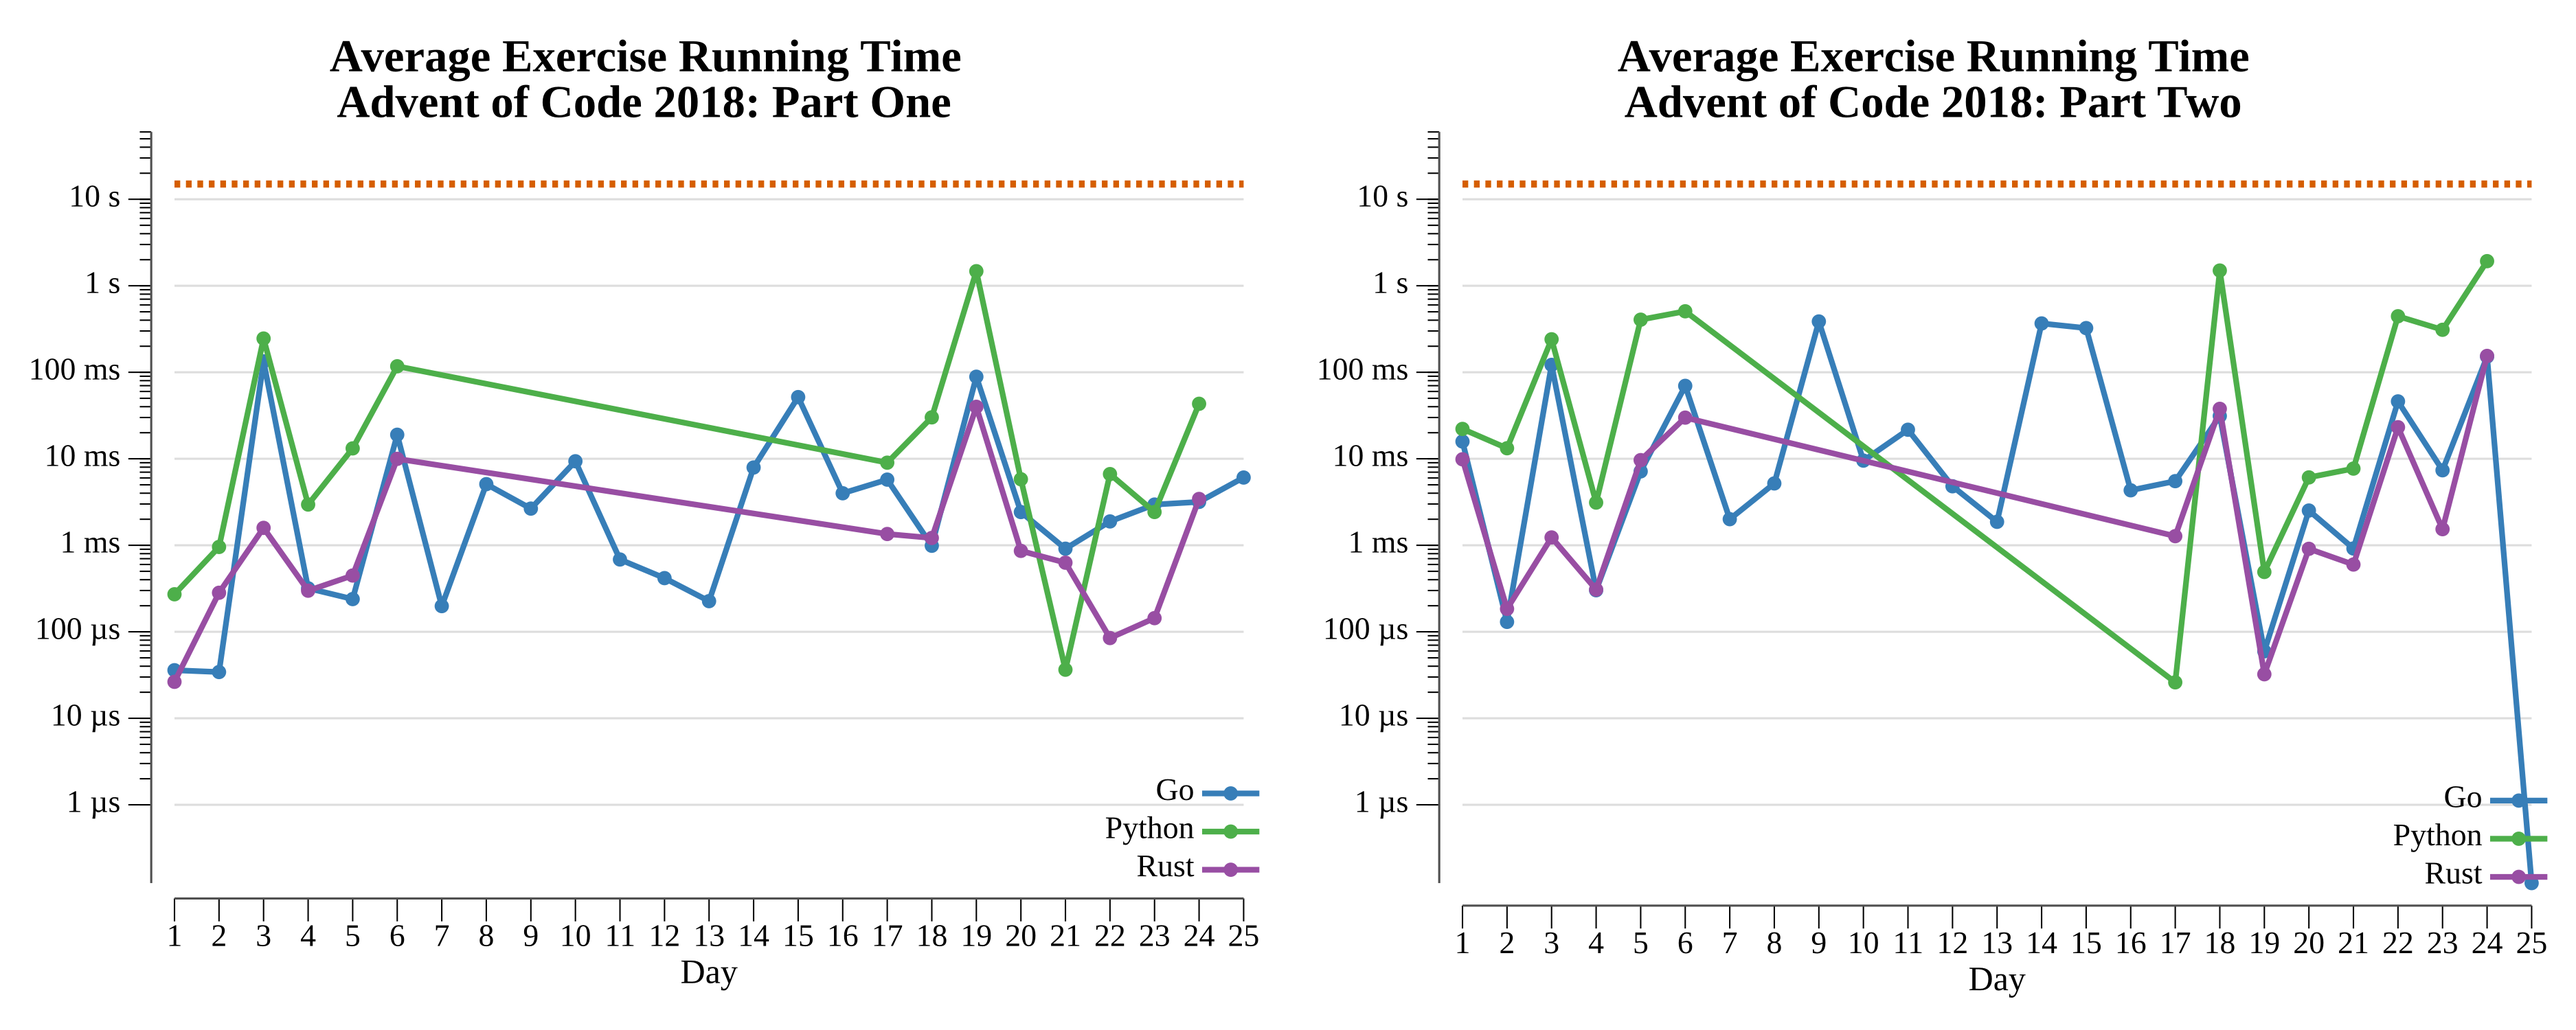
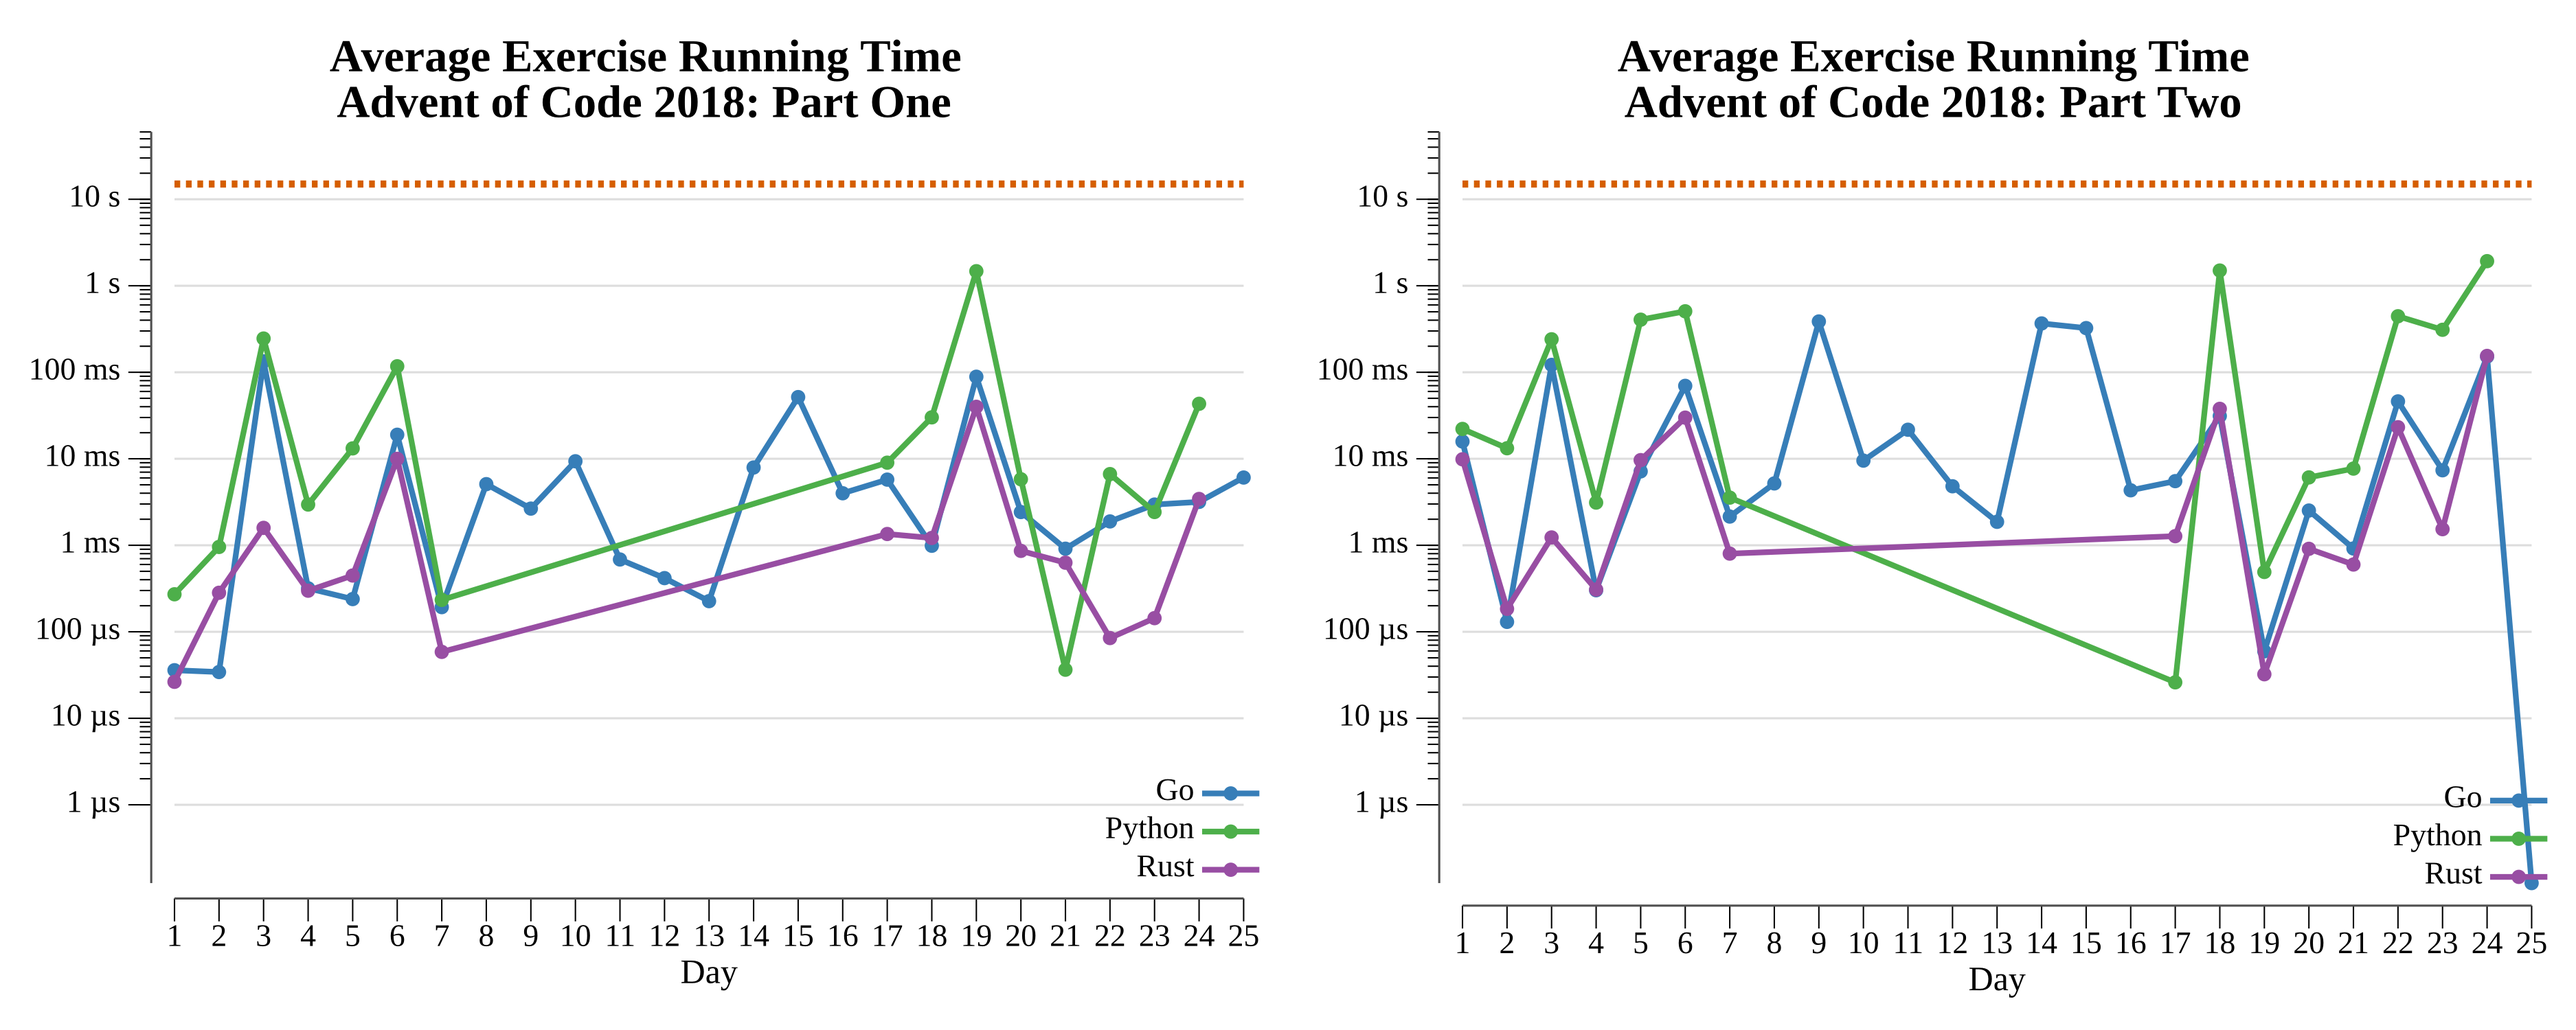
add rust and python to 2018 day 7

diff --git a/exercises/2018/07-theSumOfItsParts/rs/src/solution.rs b/exercises/2018/07-theSumOfItsParts/rs/src/solution.rs
@@ -1,0 +1,91 @@
+// Solution for Advent of Code 2018 day 7.
+
+use std::collections::{BTreeMap, BTreeSet};
+
+/// Parse each `Step X must be finished before step Y can begin` line into a
+/// dependency map: for every step, the set of steps that must precede it.
+fn deps(input: &str) -> BTreeMap<u8, BTreeSet<u8>> {
+    let mut d: BTreeMap<u8, BTreeSet<u8>> = BTreeMap::new();
+
+    for line in input.lines() {
+        let bytes = line.as_bytes();
+        if bytes.len() < 37 {
+            continue;
+        }
+        // "Step B must be finished before step Y can begin."
+        //       ^5 (before)                     ^36 (after)
+        let before = bytes[5];
+        let after = bytes[36];
+
+        d.entry(before).or_default();
+        d.entry(after).or_default().insert(before);
+    }
+
+    d
+}
+
+pub fn part_one(input: &str) -> String {
+    let d = deps(input);
+    let mut done: BTreeSet<u8> = BTreeSet::new();
+    let mut order = String::new();
+
+    while done.len() < d.len() {
+        let next = d
+            .iter()
+            .find(|(step, prereqs)| !done.contains(step) && prereqs.is_subset(&done))
+            .map(|(step, _)| *step)
+            .expect("a step should always be ready");
+
+        done.insert(next);
+        order.push(next as char);
+    }
+
+    order
+}
+
+pub fn part_two(input: &str) -> String {
+    let d = deps(input);
+
+    // The small example runs 2 workers with no base cost; the real puzzle runs
+    // 5 workers with a 60-second base per step.
+    let (workers, base) = if d.len() <= 6 { (2, 0) } else { (5, 60) };
+
+    let mut done: BTreeSet<u8> = BTreeSet::new();
+    let mut in_progress: BTreeMap<u8, u32> = BTreeMap::new(); // step -> finish second
+
+    for t in 0.. {
+        // Retire any steps that have finished by the start of this second.
+        in_progress.retain(|&step, &mut finish| {
+            if finish <= t {
+                done.insert(step);
+                false
+            } else {
+                true
+            }
+        });
+
+        if done.len() == d.len() {
+            return t.to_string();
+        }
+
+        // Assign idle workers to ready steps, alphabetically first.
+        let ready: Vec<u8> = d
+            .iter()
+            .filter(|(step, prereqs)| {
+                !done.contains(step)
+                    && !in_progress.contains_key(step)
+                    && prereqs.is_subset(&done)
+            })
+            .map(|(step, _)| *step)
+            .collect();
+
+        for step in ready {
+            if in_progress.len() >= workers {
+                break;
+            }
+            in_progress.insert(step, t + base + u32::from(step - b'A') + 1);
+        }
+    }
+
+    unreachable!()
+}

diff --git a/exercises/2018/07-theSumOfItsParts/py/__init__.py b/exercises/2018/07-theSumOfItsParts/py/__init__.py
@@ -1,0 +1,64 @@
+from typing import *
+from aocpy import BaseExercise
+
+
+def _deps(instr: str) -> dict[str, set[str]]:
+    """Map each step to the set of steps that must precede it."""
+    d: dict[str, set[str]] = {}
+    for line in instr.strip().splitlines():
+        parts = line.split()
+        before, after = parts[1], parts[7]
+        d.setdefault(before, set())
+        d.setdefault(after, set()).add(before)
+    return d
+
+
+# Exercise for Advent of Code 2018 day 7.
+class Exercise(BaseExercise):
+    @staticmethod
+    def one(instr: str) -> str:
+        d = _deps(instr)
+        done: set[str] = set()
+        order: list[str] = []
+
+        while len(done) < len(d):
+            ready = sorted(s for s, pre in d.items() if s not in done and pre <= done)
+            nxt = ready[0]
+            done.add(nxt)
+            order.append(nxt)
+
+        return "".join(order)
+
+    @staticmethod
+    def two(instr: str) -> int:
+        d = _deps(instr)
+
+        # The small example runs 2 workers with no base cost; the real puzzle
+        # runs 5 workers with a 60-second base per step.
+        workers, base = (2, 0) if len(d) <= 6 else (5, 60)
+
+        done: set[str] = set()
+        in_progress: dict[str, int] = {}  # step -> finish second
+
+        t = 0
+        while True:
+            # Retire any steps that have finished by the start of this second.
+            for step in [s for s, finish in in_progress.items() if finish <= t]:
+                done.add(step)
+                del in_progress[step]
+
+            if len(done) == len(d):
+                return t
+
+            # Assign idle workers to ready steps, alphabetically first.
+            ready = sorted(
+                s
+                for s, pre in d.items()
+                if s not in done and s not in in_progress and pre <= done
+            )
+            for step in ready:
+                if len(in_progress) >= workers:
+                    break
+                in_progress[step] = t + base + (ord(step) - ord("A") + 1)
+
+            t += 1

diff --git a/exercises/2018/07-theSumOfItsParts/README.md b/exercises/2018/07-theSumOfItsParts/README.md
@@ -1,6 +1,18 @@
 # [Day 7: The Sum of Its Parts](https://adventofcode.com/2018/day/7)
 
-<!-- [Day 7: The Sum of Its Parts](07-theSumOfItsParts) -->
+<!-- These are helper text to make formatting the yearly readme consistent and easier...
+
+[Day 7: The Sum of Its Parts][rm7]
+[Go][go7]
+[Rust][rs7]
+[Python][py7]
+
+[rm7]: 07-theSumOfItsParts/README.md
+[go7]: 07-theSumOfItsParts/go
+[rs7]: 07-theSumOfItsParts/rs
+[py7]: 07-theSumOfItsParts/py
+
+-->
 
 ## Notes
 
@@ -28,14 +40,47 @@ than hardcoded.
 ────────────────────────────────────────
 
 Solving (Go)…
-1.0:  PASS             0.156ms
-2.0:  PASS             1.659ms
+1.0:  PASS             0.210ms
+2.0:  PASS             2.042ms
+```
+
+## Rust
+
+Parses lines by fixed byte offsets and stores prerequisites in a
+`BTreeMap<u8, BTreeSet<u8>>`, so both parts iterate steps already in alphabetical
+order and readiness is a single `prereqs.is_subset(&done)` check — the first ready
+step in iteration order is the lexicographic pick with no extra sort. Part Two
+drives the clock with `for t in 0..`, retiring finished steps via
+`in_progress.retain`, and selects the worker/base regime (2 workers / base 0 for
+the six-step example, 5 workers / base 60 for the real input) from the step count.
+
+```text
+────────────────────────────────────────
+─   2018 Day 7: The Sum of Its Parts   ─
+────────────────────────────────────────
+
+Solving (Rust)…
+1.0:  PASS            59.117µs
+2.0:  PASS           867.429µs
 ```
 
 ## Python
 
+A plain `dict[str, set[str]]` of prerequisites feeds a one-line
+`sorted(... if pre <= done)` to pick the next ready step, so the lexicographic
+topological sort reads directly from the set-subset test. Part Two runs the same
+second-by-second simulation, retiring finished steps then filling idle workers, and
+chooses 2 workers / base 0 for the example versus 5 workers / base 60 for the real
+input by the number of distinct steps.
+
 ```text
-    < section intentionally left blank >
+────────────────────────────────────────
+─   2018 Day 7: The Sum of Its Parts   ─
+────────────────────────────────────────
+
+Solving (Python)…
+1.0:  PASS             0.282ms
+2.0:  PASS             3.982ms
 ```
 
 ## Visualization

diff --git a/exercises/2018/README.md b/exercises/2018/README.md
@@ -12,7 +12,7 @@
 | [Day 4: Repose Record](04-reposeRecord/README.md) |  ★ ★  | [Go](04-reposeRecord/go) · [Rust](04-reposeRecord/rs) · [Python](04-reposeRecord/py) |
 | [Day 5: Alchemical Reduction](05-alchemicalReduction/README.md) |  ★ ★  | [Go](05-alchemicalReduction/go) · [Rust](05-alchemicalReduction/rs) · [Python](05-alchemicalReduction/py) |
 | [Day 6: Chronal Coordinates](06-chronalCoordinates/README.md) |  ★ ★  | [Go](06-chronalCoordinates/go) · [Rust](06-chronalCoordinates/rs) · [Python](06-chronalCoordinates/py) |
-| [Day 7: The Sum of Its Parts](07-theSumOfItsParts/README.md) |  ★ ★  | [Go](07-theSumOfItsParts/go) |
+| [Day 7: The Sum of Its Parts](07-theSumOfItsParts/README.md) |  ★ ★  | [Go](07-theSumOfItsParts/go) · [Rust](07-theSumOfItsParts/rs) · [Python](07-theSumOfItsParts/py) |
 | [Day 8: Memory Maneuver](08-memoryManeuver/README.md) |  ★ ★  | [Go](08-memoryManeuver/go) |
 | [Day 9: Marble Mania](09-marbleMania/README.md) |  ★ ★  | [Go](09-marbleMania/go) |
 | [Day 10: The Stars Align](10-theStarsAlign/README.md) |  ★ ★  | [Go](10-theStarsAlign/go) |
